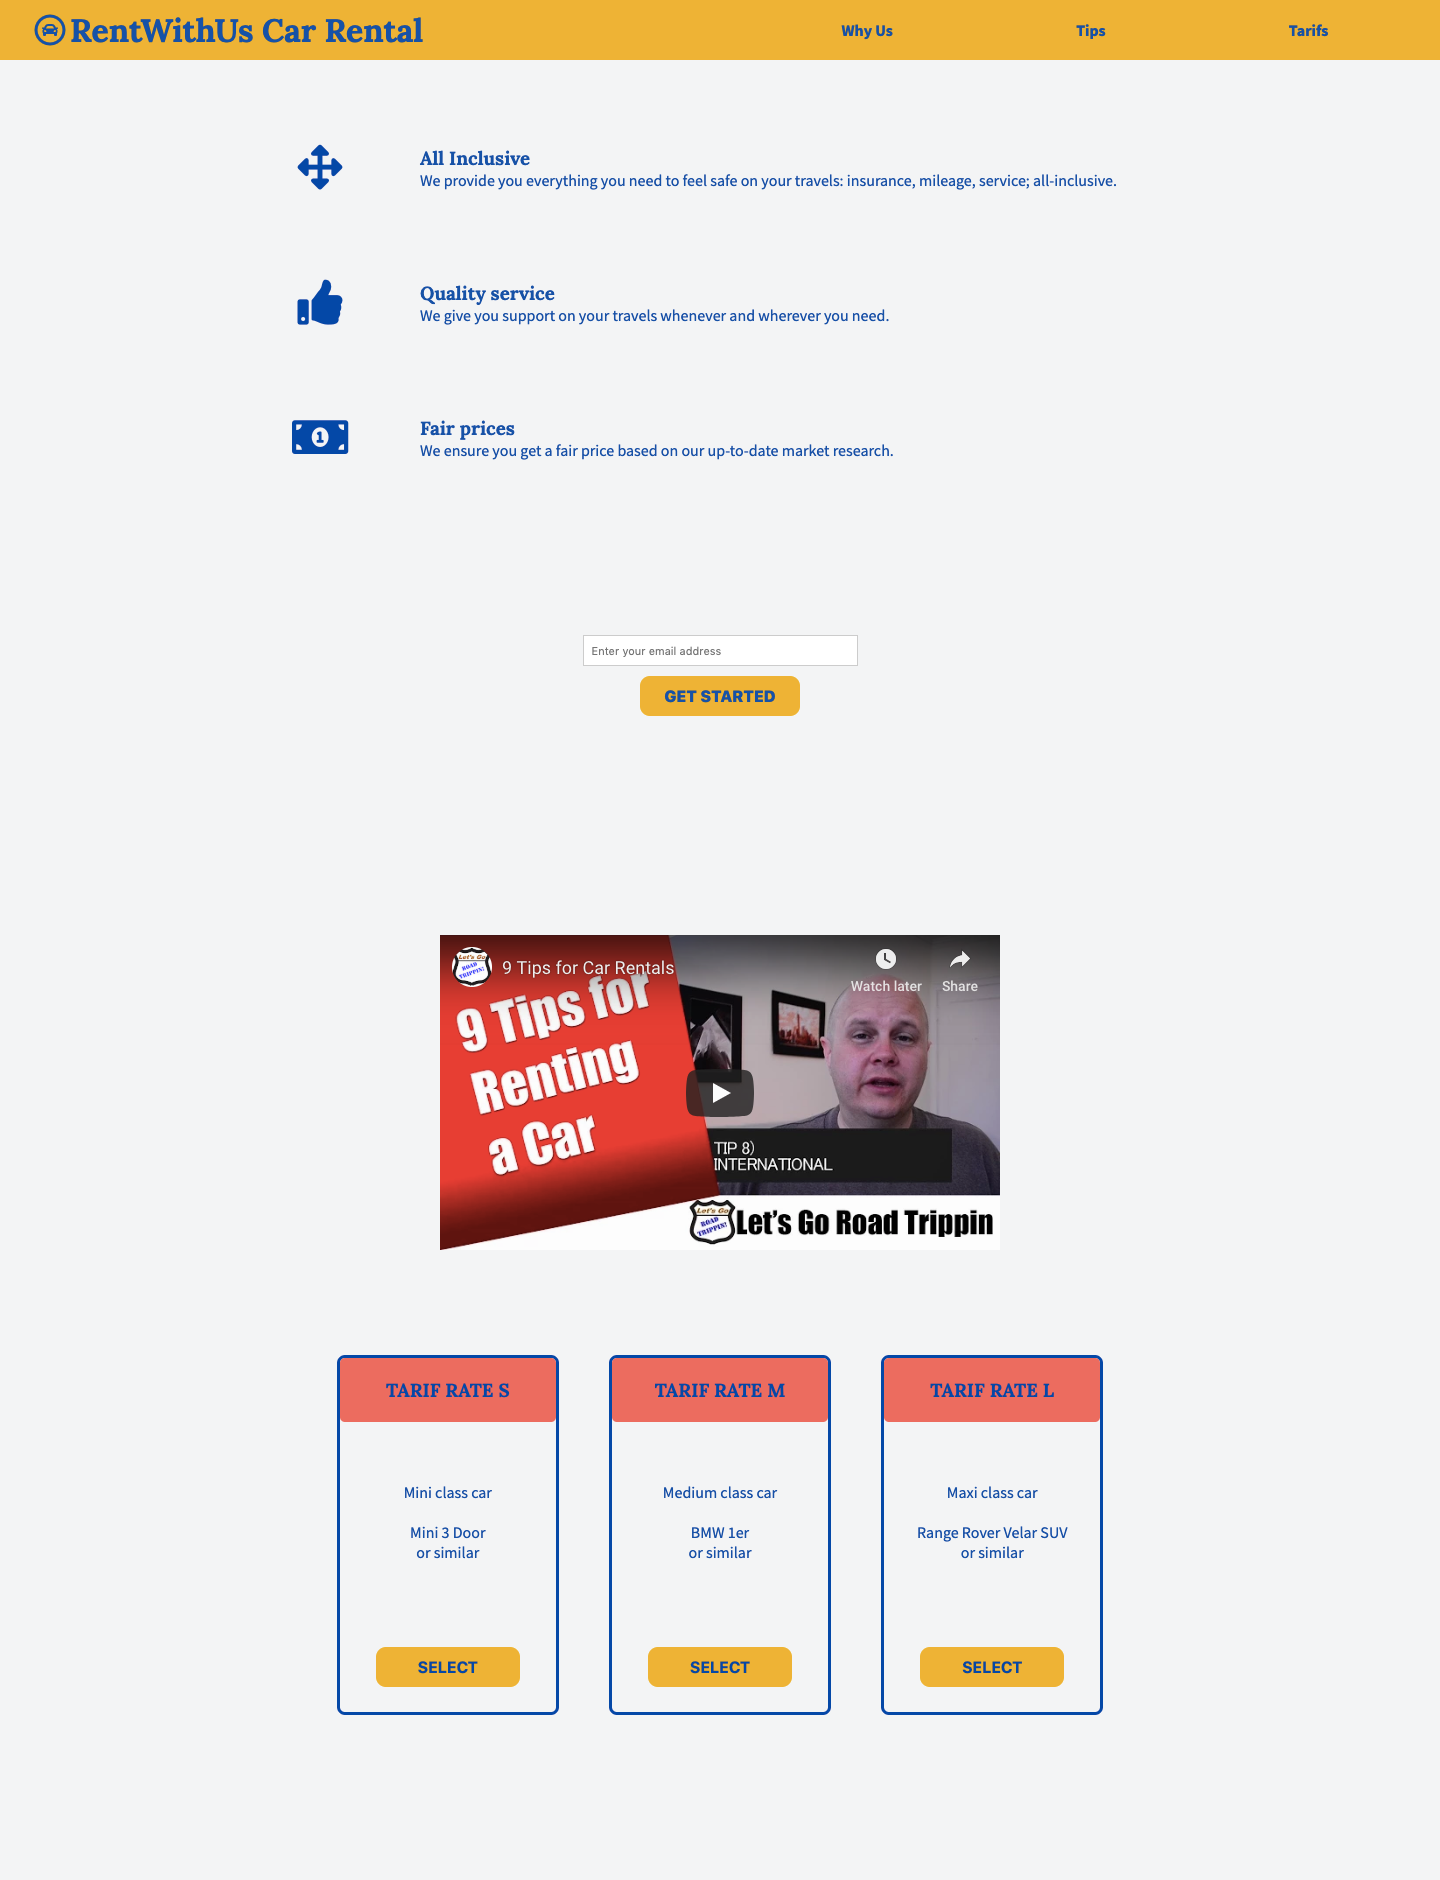
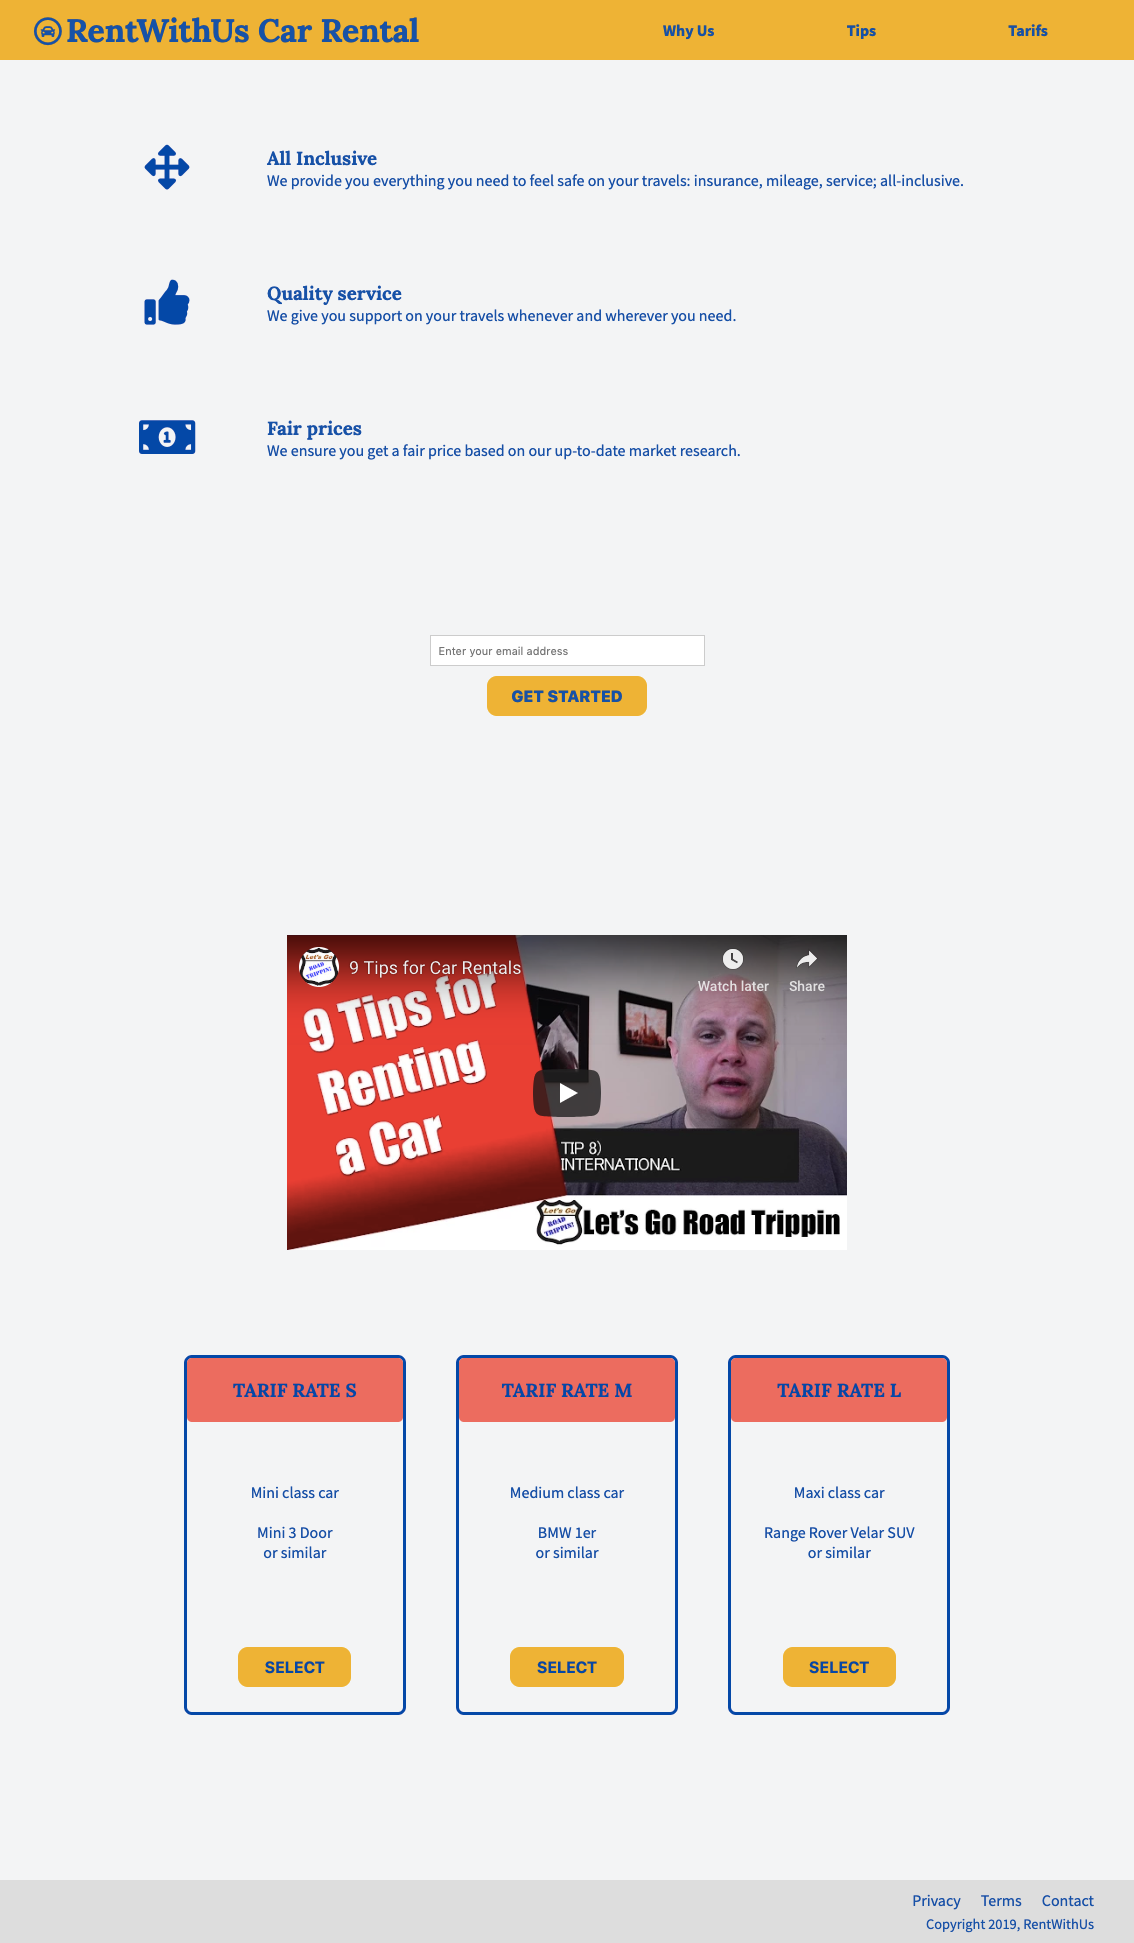
Footer added

diff --git a/style.css b/style.css
@@ -51,6 +51,8 @@ a {
   display: flex;
 }
 
+/* header */
+
 header {
   position: fixed;
   top: 0;
@@ -119,6 +121,8 @@ nav li:hover {
   text-decoration: underline overline;
 }
 
+/* why us - values */
+
 #values:before {            /* Creating space above the target of a jump link. */
   display: block;
   content: "";
@@ -162,6 +166,8 @@ nav li:hover {
   }
 }
 
+/* submit form */
+
 #hero {
   margin: 50px 0px;
   display: flex;
@@ -198,6 +204,8 @@ nav li:hover {
   transition: background-color 1s;
 }
 
+/* tips - video */
+
 #tips {
   padding-top: 130px;           /* Creating space above the target of a jump link. */
   margin-top: -50px;
@@ -212,6 +220,8 @@ nav li:hover {
   max-width: 560px;
   width: 100%;
 }
+
+/* tarifs */
 
 #tarifs {
   padding-top: 130px;
@@ -281,4 +291,30 @@ nav li:hover {
 #tarifs #rateS button:hover, #tarifs #rateM button:hover, #tarifs #rateL button:hover {
   background-color: #F36D60;
   transition: background-color 1s;
+}
+
+/* footer */
+
+footer {
+  margin-top: 10px;
+  background-color: #ddd;
+  padding: 10px;
+  padding-right: 30px;
+}
+  
+footer ul {
+  display: flex;
+  justify-content: flex-end;
+}
+    
+footer li {
+  padding: 0 10px;
+}
+  
+span {
+  margin-top: 5px;
+  padding-right: 10px;
+  display: flex;
+  justify-content: flex-end;
+  font-size: 0.9em;
 }

diff --git a/index.html b/index.html
@@ -97,5 +97,13 @@
             </div>    
         </div>
     </div>
+    <footer>
+        <ul>
+          <li><a href="#">Privacy</a></li>
+          <li><a href="#">Terms</a></li>
+          <li><a href="#">Contact</a></li>
+        </ul>
+        <span>Copyright 2019, RentWithUs</span>
+    </footer>
 </body>
 </html>
